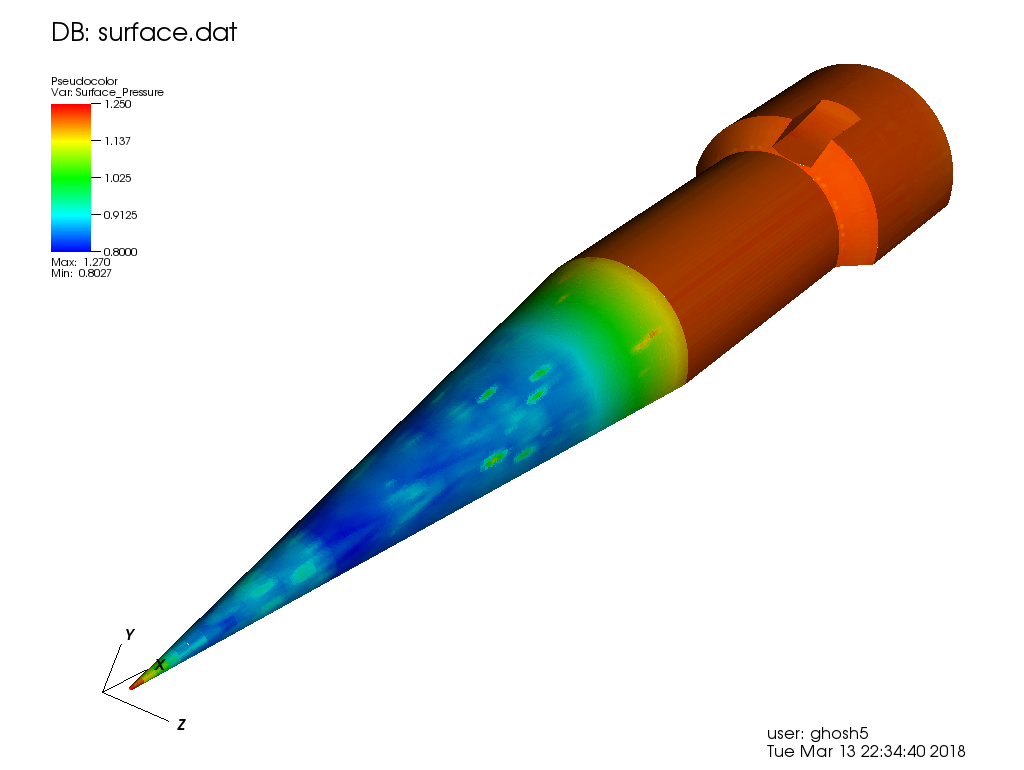
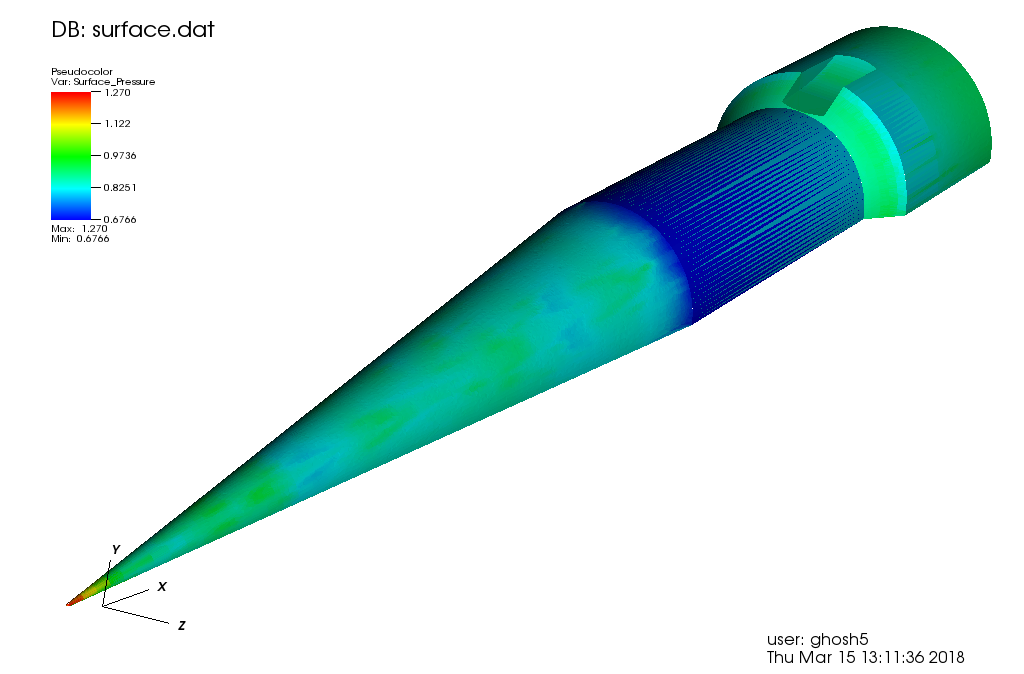
Updated the vhifire example with good solution

diff --git a/doc/Examples.md b/doc/Examples.md
@@ -1225,10 +1225,10 @@ Domain: The domain consists of a fine uniform grid around the body defined by [-
 Geometry: The VHIFIRE geometry (rescaled to be of unit length) with the nose tip at (0,0)
           (\b mhysa/Examples/STLGeometries/vhifire.stl)
 
-The following image shows the sphere:
+The following image shows the VHiFire geometry:
 @image html Surface3D_vhifire.png
 
-The following images shows the grid and the sphere:
+The following images shows the grid around the body:
 @image html Domain3D_vhifire1.png
 @image html Domain3D_vhifire2.png
 
@@ -1292,15 +1292,26 @@ are available to convert the binary output file:
 + \b mhysa/Extras/BinaryToText.c - convert binary output file to
   an ASCII text file (to visualize in, for example, MATLAB).
 
-The following figure shows the pressure:
+The following figure shows the pressure and the velocity vectors:
 @image html Solution_3DNavStokVhifire_Mach2_Pressure.png
-The following figure shows the density and velocity vectors:
-@image html Solution_3DNavStokVhifire_Mach2_Density.png
+The following figure shows the pressure and the velocity vectors for a magnified view in the region around the body:
+@image html Solution_3DNavStokVhifire_Mach2_Pressure_Zoom.png
+The following figure shows the Mach number:
+@image html Solution_3DNavStokVhifire_Mach2_Mach.png
+The following figure shows the temperature:
+@image html Solution_3DNavStokVhifire_Mach2_Temperature.png
 
 In addition to the main solution, the code also writes out a file with the aerodynamic
 forces on the immersed body. This file is called \a surface.dat (if #HyPar::op_overwrite
 is "yes") or \a surface_nnnnn.dat (if #HyPar::op_overwrite is "no", "nnnnn" is a numerical
 index) (in this example, the file \b surface.dat is written out). This is an ASCII file in 
 the Tecplot format, where the immersed body and the forces on it are represented using the 
-"FETRIANGLE" type. The following image shows the surface pressure on the sphere (front-view):
+"FETRIANGLE" type. The following image shows the surface pressure on the body (front-view):
 @image html IBSurface_3DNavStokVHifire_Mach2.png
+
+The following plot shows the surface pressure on the body and the streamlines. The streamlines 
+are colored by the value of the Mach number.
+@image html IBSurface_3DNavStokVHifire_Mach2_wStreamlines.png
+
+Expected screen output:
+\include SingleSpecies/3D_VHiFire_Mach2/output.log
